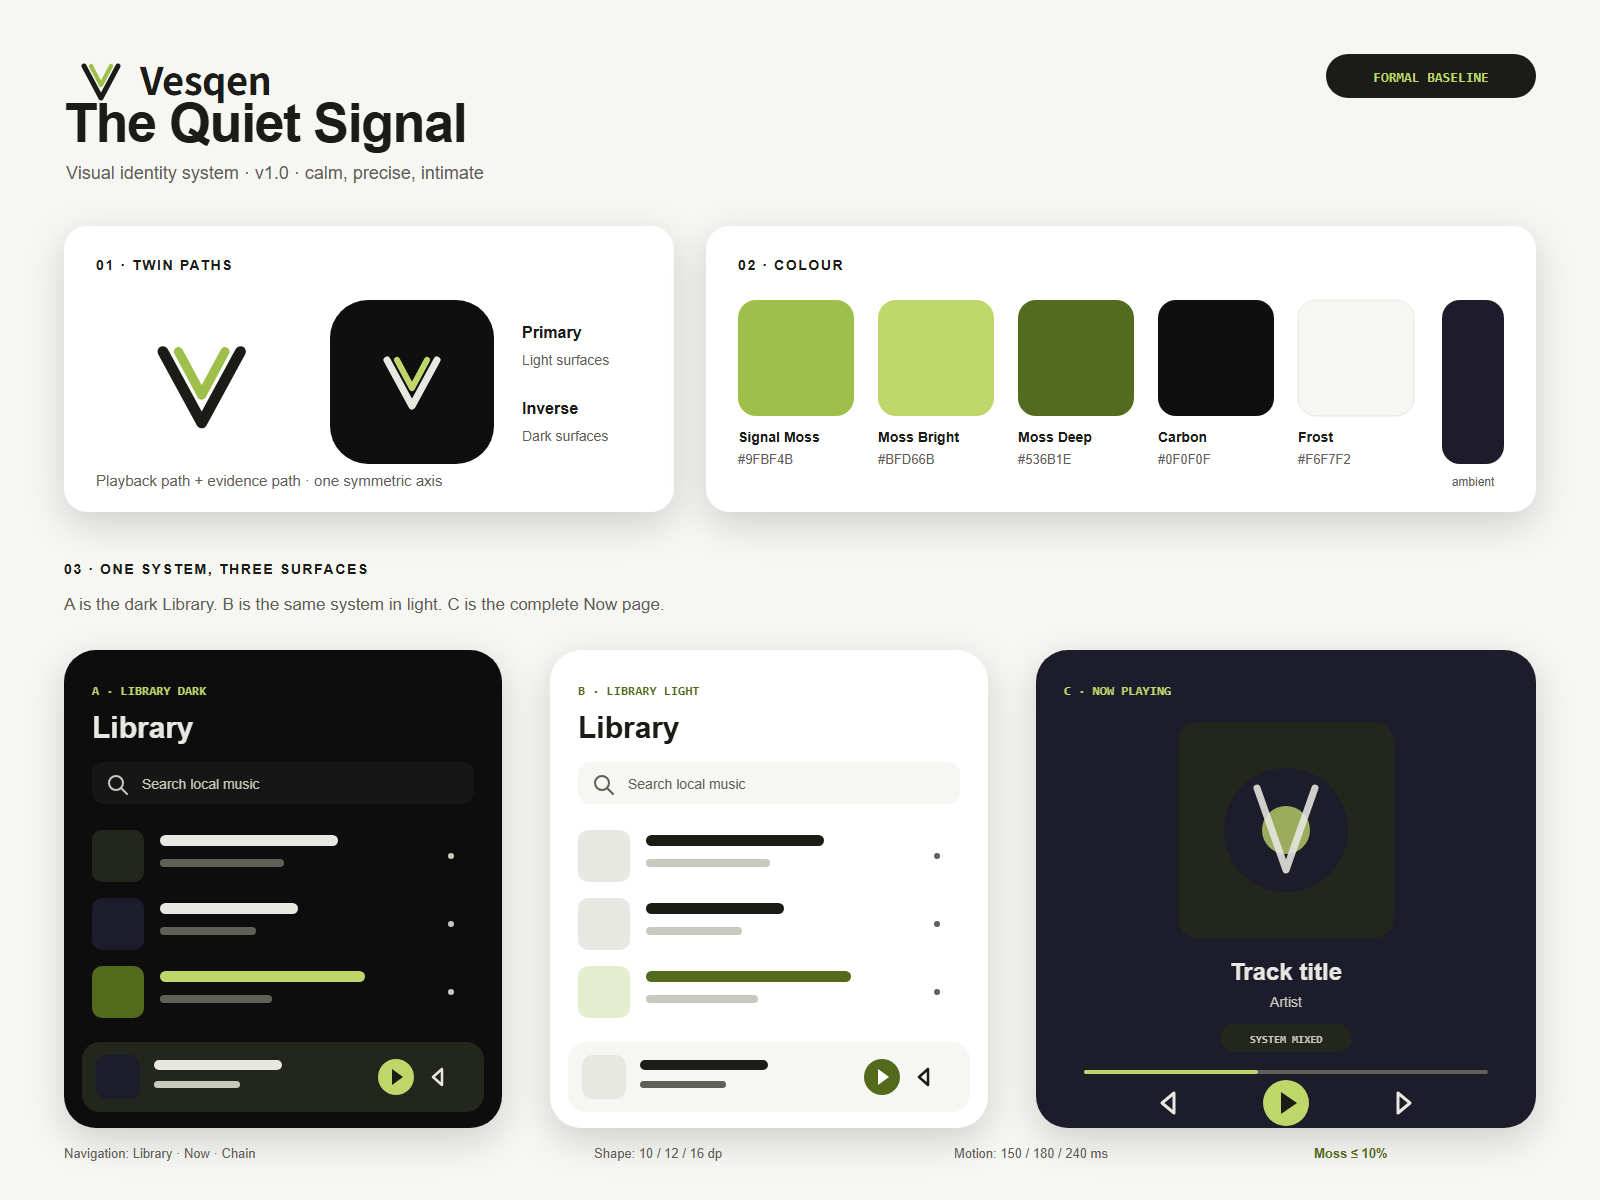
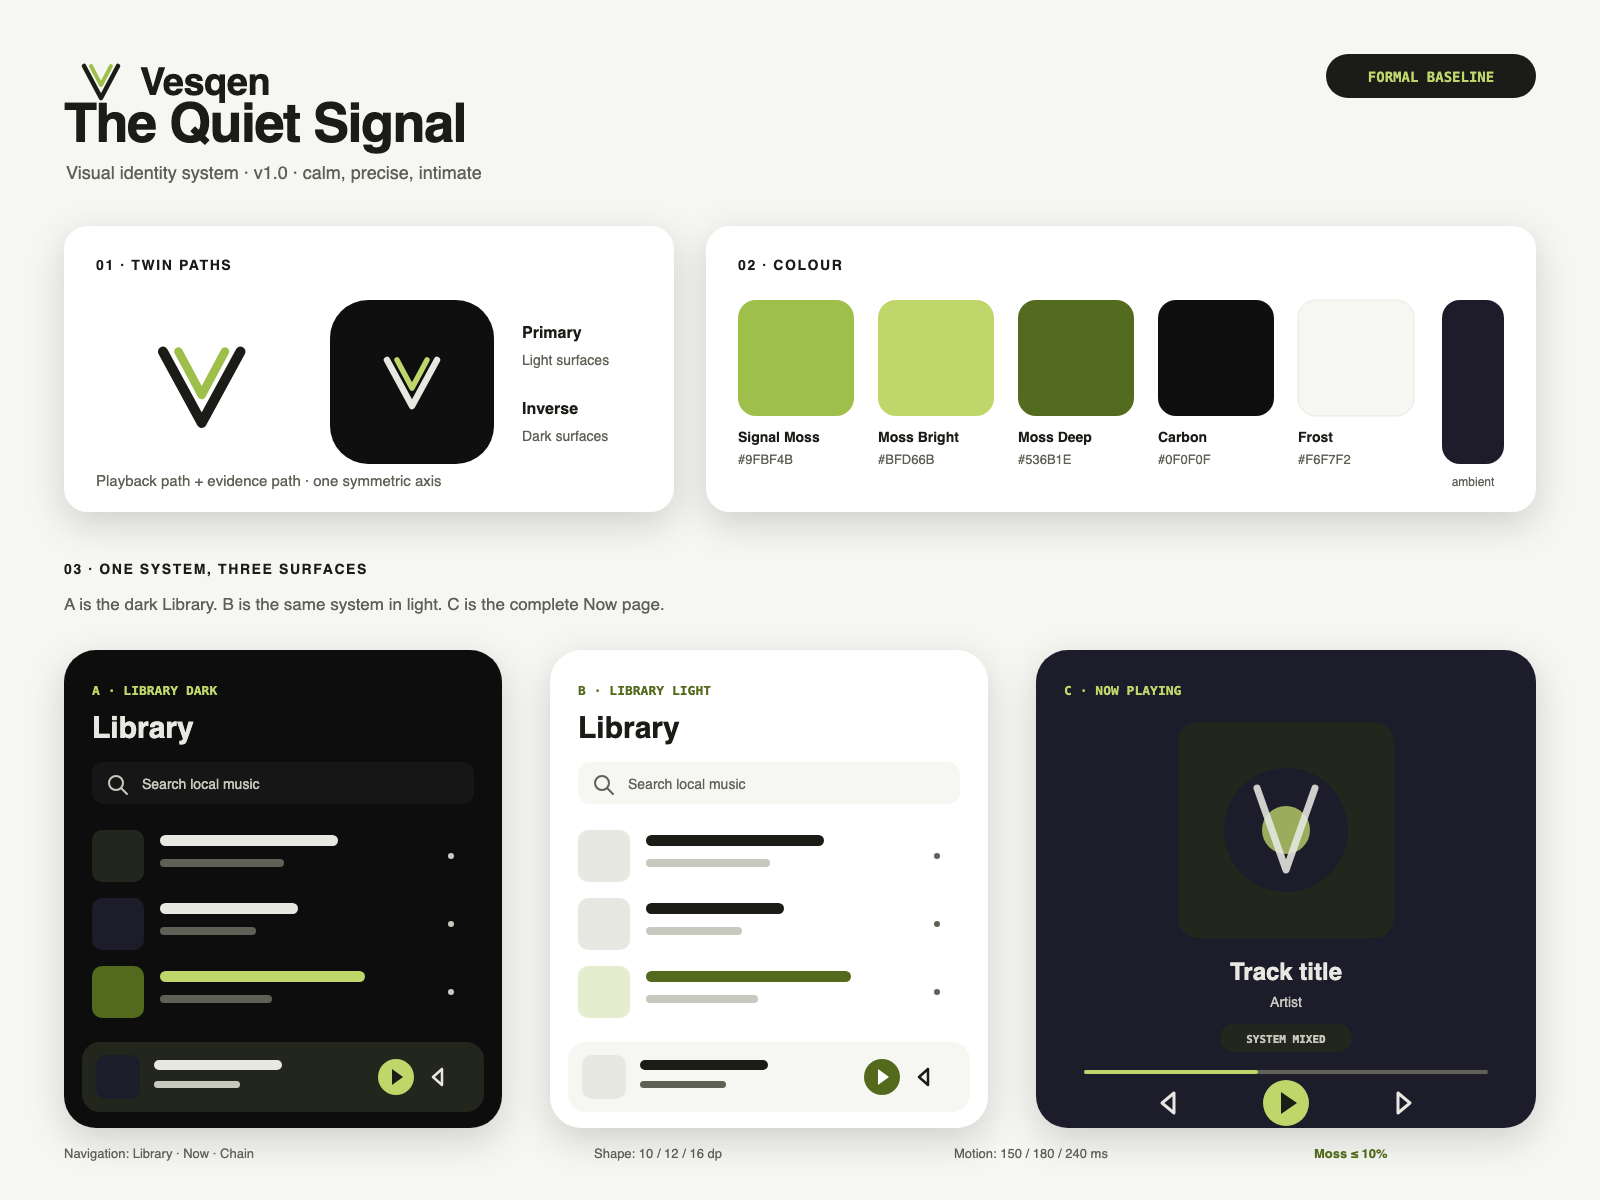
feat(brand): refine Twin Paths strokes and animate the splash
Part of #35. The owner picked variant B (balanced) on 2026-10-06.

- Twin Paths strokes go from 7 / 6 to 6.5 / 5.5 units of 108; paths,
  proportions and colours are unchanged. The gap between the paths is
  about a quarter wider, so the two read apart at small sizes. Applied
  to the launcher foreground and monochrome icons, the in-app mark, the
  Compose cover placeholder, every brand SVG, the store sources and the
  re-exported store and board PNGs. The 24 dp notification symbol keeps
  its own optical geometry.
- Splash (Android 12+): the ink path draws, then the Moss path, about
  0.65 s in all, on B paper or night. The window background on every
  release now matches the first Compose frame instead of white or
  carbon, so there is no flash before the app draws.
- SplashMarkDeviceTest checks the animated mark inflates, ends within
  1.5 s and ends with the whole mark drawn.
- VISUAL_IDENTITY.md records the new construction values, the clear
  space (13 units) and the splash rule.

diff --git a/app/src/androidTest/java/io/github/sumirenokai/vesqen/ui/SplashMarkDeviceTest.kt b/app/src/androidTest/java/io/github/sumirenokai/vesqen/ui/SplashMarkDeviceTest.kt
@@ -1,0 +1,53 @@
+package io.github.sumirenokai.vesqen.ui
+
+import android.graphics.Bitmap
+import android.graphics.Canvas
+import android.graphics.drawable.Animatable2
+import android.graphics.drawable.AnimatedVectorDrawable
+import android.graphics.drawable.Drawable
+import android.view.ViewGroup
+import android.widget.ImageView
+import androidx.activity.ComponentActivity
+import androidx.test.core.app.ActivityScenario
+import io.github.sumirenokai.vesqen.R
+import java.util.concurrent.CountDownLatch
+import java.util.concurrent.TimeUnit
+import org.junit.Assert.assertTrue
+import org.junit.Test
+
+/**
+ * The Android 12+ splash icon inflates, finishes well inside the splash's 700 ms budget plus
+ * margin, and ends with the whole mark drawn. It runs in a real view: an animated vector only
+ * animates once a hardware canvas draws it, as the system splash does.
+ */
+class SplashMarkDeviceTest {
+    @Test fun splashMarkFinishesQuicklyWithTheWholeMarkDrawn() {
+        ActivityScenario.launch(ComponentActivity::class.java).use { scenario ->
+            val ended = CountDownLatch(1)
+            lateinit var view: ImageView
+            scenario.onActivity { activity ->
+                val mark = activity.getDrawable(R.drawable.avd_splash_mark) as AnimatedVectorDrawable
+                mark.registerAnimationCallback(object : Animatable2.AnimationCallback() {
+                    override fun onAnimationEnd(drawable: Drawable) = ended.countDown()
+                })
+                view = ImageView(activity).apply { setImageDrawable(mark) }
+                activity.setContentView(view, ViewGroup.LayoutParams(Size, Size))
+                view.post { mark.start() }
+            }
+            assertTrue("the splash mark must finish within 1.5 s", ended.await(1_500, TimeUnit.MILLISECONDS))
+            var inked = 0
+            scenario.onActivity {
+                val bitmap = Bitmap.createBitmap(Size, Size, Bitmap.Config.ARGB_8888)
+                view.draw(Canvas(bitmap))
+                val pixels = IntArray(Size * Size)
+                bitmap.getPixels(pixels, 0, Size, 0, 0, Size, Size)
+                inked = pixels.count { (it ushr 24) > 0 }
+            }
+            assertTrue("both paths must be drawn at the end; inked=$inked", inked > Size * Size / 20)
+        }
+    }
+
+    private companion object {
+        const val Size = 216
+    }
+}

diff --git a/app/src/main/java/io/github/sumirenokai/vesqen/ui/components/AlbumArtwork.kt b/app/src/main/java/io/github/sumirenokai/vesqen/ui/components/AlbumArtwork.kt
@@ -147,7 +147,8 @@ private fun TwinPathsPlaceholder(emphasized: Boolean) {
                 radius = radius,
                 center = center,
             )
-            val lineWidth = size.minDimension * if (emphasized) .07f else .09f
+            // Twin Paths B (2026-10-06): strokes 6.5 / 5.5 of 108, optically heavier when small.
+            val lineWidth = size.minDimension * if (emphasized) .065f else .084f
             val left = size.width * .27f
             val right = size.width * .73f
             val top = size.height * .29f
@@ -170,14 +171,14 @@ private fun TwinPathsPlaceholder(emphasized: Boolean) {
                 color = primary,
                 start = Offset(size.width * .39f, top),
                 end = Offset(size.width / 2f, size.height * .57f),
-                strokeWidth = lineWidth * .78f,
+                strokeWidth = lineWidth * .77f,
                 cap = StrokeCap.Round,
             )
             drawLine(
                 color = primary,
                 start = Offset(size.width / 2f, size.height * .57f),
                 end = Offset(size.width * .61f, top),
-                strokeWidth = lineWidth * .78f,
+                strokeWidth = lineWidth * .77f,
                 cap = StrokeCap.Round,
             )
         }

diff --git a/docs/store/src/icon-512.html b/docs/store/src/icon-512.html
@@ -10,8 +10,8 @@
 <body>
 <svg width="512" height="512" viewBox="9 9 90 90" xmlns="http://www.w3.org/2000/svg">
   <rect width="108" height="108" fill="#0F0F0F"/>
-  <path d="M29 32L54 78L79 32" fill="none" stroke="#E7E8E1" stroke-width="7" stroke-linecap="round" stroke-linejoin="round"/>
-  <path d="M39 32L54 60L69 32" fill="none" stroke="#BFD66B" stroke-width="6" stroke-linecap="round" stroke-linejoin="round"/>
+  <path d="M29 32L54 78L79 32" fill="none" stroke="#E7E8E1" stroke-width="6.5" stroke-linecap="round" stroke-linejoin="round"/>
+  <path d="M39 32L54 60L69 32" fill="none" stroke="#BFD66B" stroke-width="5.5" stroke-linecap="round" stroke-linejoin="round"/>
 </svg>
 </body>
 </html>

diff --git a/docs/store/src/feature-graphic.html b/docs/store/src/feature-graphic.html
@@ -37,8 +37,8 @@
 <div class="frame" id="frame">
   <div class="brand">
     <svg width="44" height="44" viewBox="0 0 108 108" fill="none" aria-hidden="true">
-      <path d="M29 32L54 78L79 32" stroke="#1B1C18" stroke-width="7" stroke-linecap="round" stroke-linejoin="round"/>
-      <path d="M39 32L54 60L69 32" stroke="#9FBF4B" stroke-width="6" stroke-linecap="round" stroke-linejoin="round"/>
+      <path d="M29 32L54 78L79 32" stroke="#1B1C18" stroke-width="6.5" stroke-linecap="round" stroke-linejoin="round"/>
+      <path d="M39 32L54 60L69 32" stroke="#9FBF4B" stroke-width="5.5" stroke-linecap="round" stroke-linejoin="round"/>
     </svg>
     <span>Vesqen</span>
   </div>

diff --git a/docs/brand/VISUAL_IDENTITY.md b/docs/brand/VISUAL_IDENTITY.md
@@ -26,20 +26,22 @@ Twin Paths 由两条沿同一垂直轴汇聚的 V 形路径构成：
 
 - 标准画板：`108 × 108`。
 - 垂直对称轴：`x = 54`。
-- 外路径：`M29,32 L54,78 L79,32`，7 单位圆角描边。
-- 内路径：`M39,32 L54,60 L69,32`，6 单位圆角描边。
-- 实际外接范围：`x = 25.5–82.5`、`y = 28.5–81.5`。
+- 外路径：`M29,32 L54,78 L79,32`，6.5 单位圆角描边。
+- 内路径：`M39,32 L54,60 L69,32`，5.5 单位圆角描边。
+- 实际外接范围：`x = 25.75–82.25`、`y = 28.75–81.25`。
+- 2026-10-06 所有者在三个细化方案中选定 B（匀称）：描边从 7 / 6 改为 6.5 / 5.5，两条路径之间的空隙宽约四分之一，小尺寸下更容易分开。路径、比例和颜色不变。
 - Android 自适应图标安全区：`x/y = 21–87`，两条路径完整位于安全区内。
 
 不得拉伸、旋转、倾斜、改变两条路径的相对高度、添加第三条路径，或给路径增加音符、波形、耳机、唱片、播放键和勾形尾部。
 
 ### 2.2 留白与最小尺寸
 
-- 独立标志四周最小留白为外路径描边宽度的 2 倍，即标准画板中的 14 单位。
+- 独立标志四周最小留白为外路径描边宽度的 2 倍，即标准画板中的 13 单位。
 - 数字界面最小尺寸为 24 dp/px；低于 32 dp/px 时优先使用单色版本。
 - 横向组合标最小宽度为 112 px；小于该宽度时只使用独立标志。
 - 启动图标、通知图标和主题图标必须使用各自专用资产，不得从截图或 App 图标位图裁切。
-- 24 dp 通知标志使用光学校正几何：外路径 `M22,24 L54,84 L86,24` / 9 单位，内路径 `M35,24 L54,61 L73,24` / 8 单位。它只扩大墨迹面积，不改变 Twin Paths 的对称关系；不得反向覆盖标准主标。
+- 24 dp 通知标志使用光学校正几何：外路径 `M22,24 L54,84 L86,24` / 9 单位，内路径 `M35,24 L54,61 L73,24` / 8 单位。它只扩大墨迹面积，不改变 Twin Paths 的对称关系；不得反向覆盖标准主标。2026-10-06 的描边细化不改这个专用几何。
+- 启动画面（Android 12 及以上）：背景用 B 的 `paper` `#F3EFE6`（深色 `night` `#151411`），先画外路径（约 0.42 秒），再画内路径（约 0.4 秒，0.26 秒时开始），共约 0.65 秒，不旋转、不变形。系统关闭动画时直接显示完整标志；Android 8–11 只显示同色的窗口背景。启动画面不得为了播完动画而推迟进入应用。
 
 ## 3. 标识版本
 
